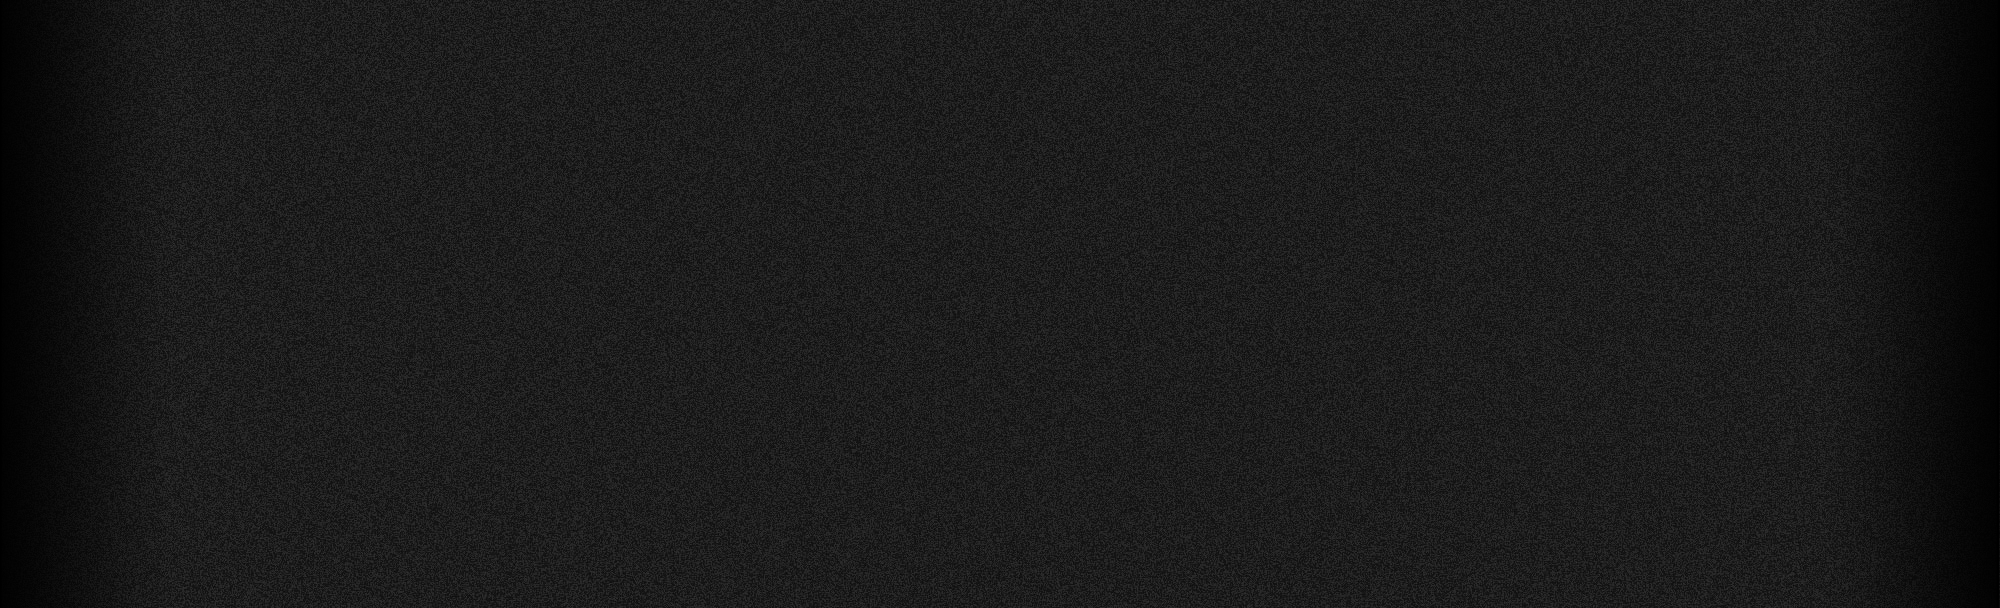
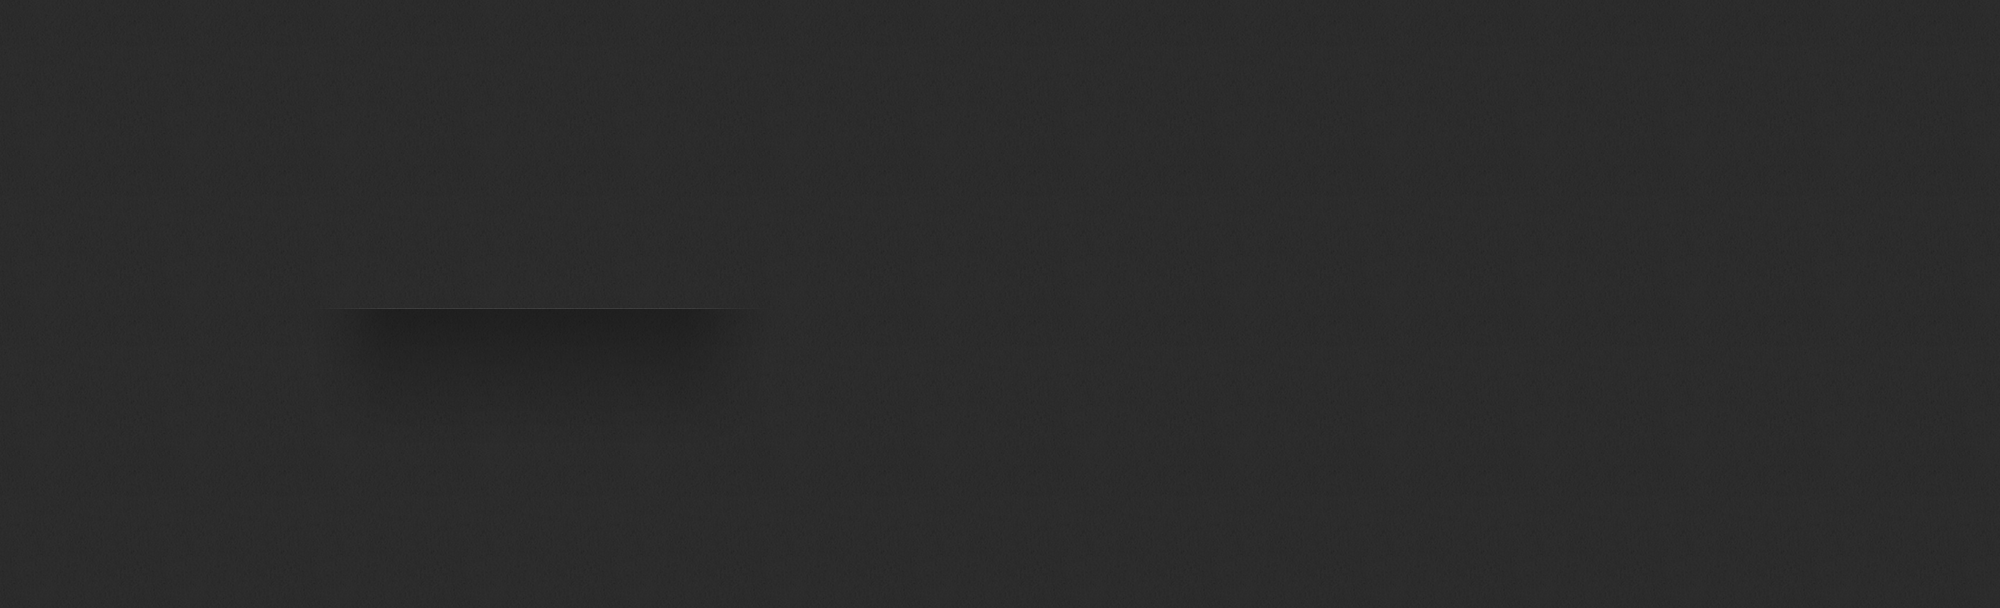
fixed background and alignment of close button and contacts

Changed region(s): [[0.0, 0.0, 1.0, 1.0]]

diff --git a/css/main.css b/css/main.css
@@ -38,7 +38,7 @@ img { display: block; }
 #header #subnavswrapper #subnavs { width: 1137px; height: 104px; position: relative; margin: 0 auto; }
 #header #subnavswrapper #subnavs .about { position: absolute; width: 100%; height: 100%; top: 0px; left: 0px; padding-top: 21px; display: none; }
 #header #subnavswrapper #subnavs .about p { width: 380px; color: #FFFFFF; font-family: 'Trade Gothic W01 Cn 18'; font-size: 12px; letter-spacing: 1px; line-height: 15px; }
-#header #subnavswrapper #subnavs .about .links { position: absolute; top: 30px; left: 512px; width: 150px; height: 40px; }
+#header #subnavswrapper #subnavs .about .links { position: absolute; top: 29px; left: 512px; width: 150px; height: 40px; }
 #header #subnavswrapper #subnavs .about .links .flickr { margin-right: 16px; width: 24px; height: 62px; background: url('../img/flickrBtn.png') top left no-repeat; }
 #header #subnavswrapper #subnavs .about .links .flickr:hover { background-position: -24px 0px; }
 #header #subnavswrapper #subnavs .about .links .vimeo { width: 18px; height: 62px; background: url('../img/vimeoBtn.png') top left no-repeat; }
@@ -46,7 +46,7 @@ img { display: block; }
 #header #subnavswrapper #subnavs .about .links .imdb { width: 32px; height: 62px; background: url('../img/imdbBtn.png') top left no-repeat; }
 #header #subnavswrapper #subnavs .about .links .imdb:hover { background-position: -32px 0px; }
 #header #subnavswrapper #subnavs .about .links a { float: left; margin-right: 20px; }
-#header #subnavswrapper #subnavs .contact { position: absolute; width: 500px; height: 100%; top: 0px; left: 0px; padding-left: 255px; padding-top: 48px; display: none; font-family: 'Trade Gothic W01 Cn 18'; font-size: 13px; letter-spacing: 1px; }
+#header #subnavswrapper #subnavs .contact { position: absolute; width: 500px; height: 100%; top: 0px; left: 0px; padding-left: 255px; padding-top: 56px; display: none; font-family: 'Trade Gothic W01 Cn 18'; font-size: 13px; letter-spacing: 1px; }
 #header #subnavswrapper #subnavs .contact .items .name { float: left; margin-right: 46px; color: #FFFFFF; }
 #header #subnavswrapper #subnavs .contact .items .number { float: left; margin-right: 42px; color: #FFFFFF; }
 #header #subnavswrapper #subnavs .contact .items .email { float: left; color: #FFFFFF; }
@@ -131,22 +131,21 @@ img { display: block; }
 /*
 	Video Player
 */
-.player-wrapper { position: relative; width: 100%; background-color: #000000; margin-bottom: 20px; background: #000000 url("../img/player/texture.jpg") top left repeat; background-position: center; height: 0px; overflow: hidden; }
+/*.player-wrapper { position: relative; width: 100%; background-color: #000000; margin-bottom: 20px; background: #000000 url("../img/player/texture.jpg") top left repeat; background-position: center; height: 0px; overflow: hidden; }*/
+.player-wrapper { position: relative; width: 100%; background-color: #000000; margin-bottom: 20px; background: #000000 url("../img/player/bg.png") top left no-repeat; background-position: center; height: 0px; overflow: hidden; }
 .player-wrapper .overlay { position: absolute; top: 0px; left: 0px; width: 100%; height: 100%; background-color: rgba(0,0,0,.15); }
-/*.player-wrapper .leftcap { display: none; position: absolute; top: 0px; left: 0px; width: 120px; height: 100%; z-index: 10; background: url("../img/player/leftcap.png") top left no-repeat; }
-.player-wrapper .rightcap { display: none; position: absolute; top: 0px; right: 0px; width: 120px; height: 100%; z-index: 10; background: url("../img/player/rightcap.png") top left no-repeat; }*/
 .player-wrapper .player { z-index: 100; width: 1300px; height: 608px; overflow: hidden; margin: 0 auto; position: relative; opacity: 0; }
 .player-wrapper .player .video-wrapper { background-color: #000000; position: absolute; top: 79px; right: 77px; width: 804px; height: 453px; }
-.player-wrapper .player .close { cursor: pointer; position: absolute; top: 39px; right: 74px; width: 93px; height: 26px; background: url("../img/player/close.png") top left no-repeat; }
-.player-wrapper .player .title { position: absolute; top: 267px; left: 59px; width: 294px; text-align: center; color: #FFFFFF; z-index: 2; text-transform: uppercase; }
+.player-wrapper .player .close { cursor: pointer; position: absolute; top: 39px; right: 76px; width: 93px; height: 26px; background: url("../img/player/close.png") top left no-repeat; }
+.player-wrapper .player .title { position: absolute; top: 241px; left: 59px; width: 294px; text-align: center; color: #FFFFFF; z-index: 2; text-transform: uppercase; }
 .player-wrapper .player .title .main { font-family: "TradeGothicW01-BoldCn20 675334"; font-size: 24px; letter-spacing: 1px; margin-bottom: 5px; }
 .player-wrapper .player .title .mainonly { font-family: "TradeGothicW01-BoldCn20 675334"; font-size: 24px; letter-spacing: 1px; margin-bottom: 5px; padding-top: 28px; }
 .player-wrapper .player .title .sub { font-family: "TradeGothicW01-Cn18Obl"; font-size: 19px; letter-spacing: 1px; padding-right: 5px; }
-.player-wrapper .player .role { position: absolute; top: 358px; left: 59px; width: 294px; text-align: center; color: #000000; font-family: "TradeGothicW01-BoldCn20 675334"; font-size: 18px; z-index: 2; }
+.player-wrapper .player .role { position: absolute; top: 338px; left: 59px; width: 294px; text-align: center; color: #000000; font-family: "TradeGothicW01-BoldCn20 675334"; font-size: 18px; z-index: 2; }
 .player-wrapper .player .role p { padding: 3px 18px 3px 18px; background-color: #FFFFFF; display: inline; }
 
-.player-wrapper .player .rolebgtop { position: absolute; top: 332px; left: -20px; width: 462px; height: 1px; z-index: 1; background: url('../img/player/rolebgtop.png') top left no-repeat; opacity: 0.2; }
-.player-wrapper .player .rolebgbottom { position: absolute; top: 333px; left: -20px; width: 462px; height: 142px;  opacity: 1; z-index: 1; background: url('../img/player/rolebgbottom.png') top left no-repeat; }
+/*.player-wrapper .player .rolebgtop { position: absolute; top: 332px; left: -20px; width: 462px; height: 1px; z-index: 1; background: url('../img/player/rolebgtop.png') top left no-repeat; opacity: 0.2; }
+.player-wrapper .player .rolebgbottom { position: absolute; top: 333px; left: -20px; width: 462px; height: 142px;  opacity: 1; z-index: 1; background: url('../img/player/rolebgbottom.png') top left no-repeat; }*/
 
 /*
 	Footer

diff --git a/desktop.php b/desktop.php
@@ -123,8 +123,8 @@
                             <div class="overlay"></div>
                             <div class="leftcap"></div>
                             <div class="player">
-                                <div class="rolebgtop"></div>
-                                <div class="rolebgbottom"></div>
+<!--                                 <div class="rolebgtop"></div>
+                                <div class="rolebgbottom"></div> -->
                                 <div class="title"></div>
                                 <div class="role"><p></p></div>
                                 <div class="video-wrapper">
@@ -161,8 +161,8 @@
                             <div class="overlay"></div>
                             <div class="leftcap"></div>
                             <div class="player">
-                                <div class="rolebgtop"></div>
-                                <div class="rolebgbottom"></div>
+<!--                                 <div class="rolebgtop"></div>
+                                <div class="rolebgbottom"></div> -->
                                 <div class="title"></div>
                                 <div class="role"><p></p></div>
                                 <div class="video-wrapper">
